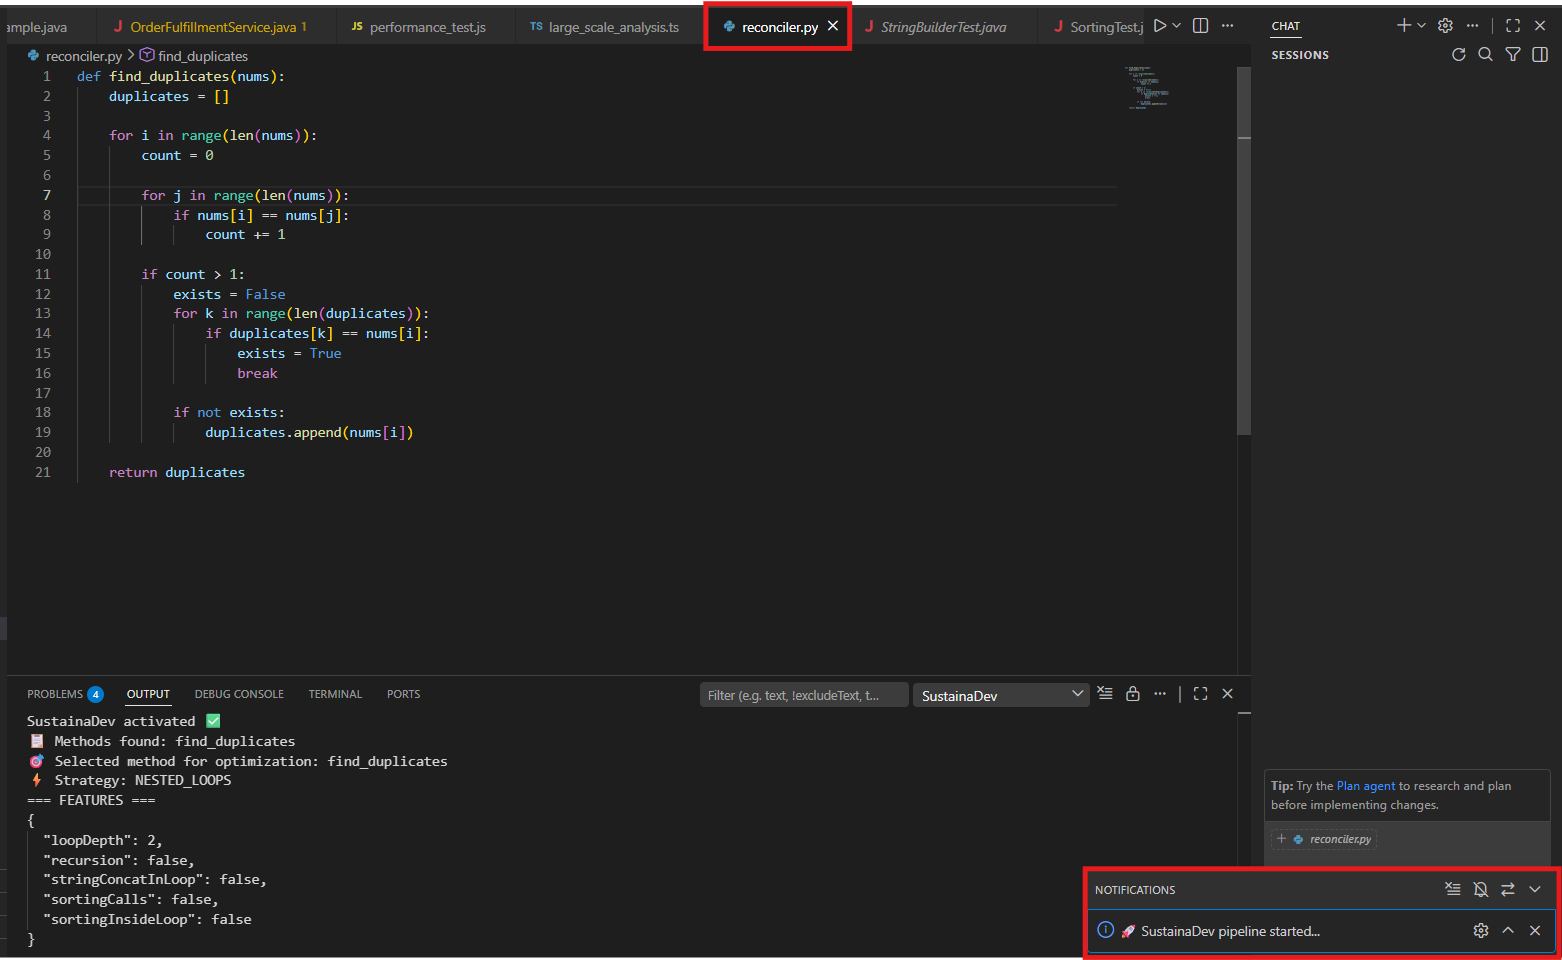
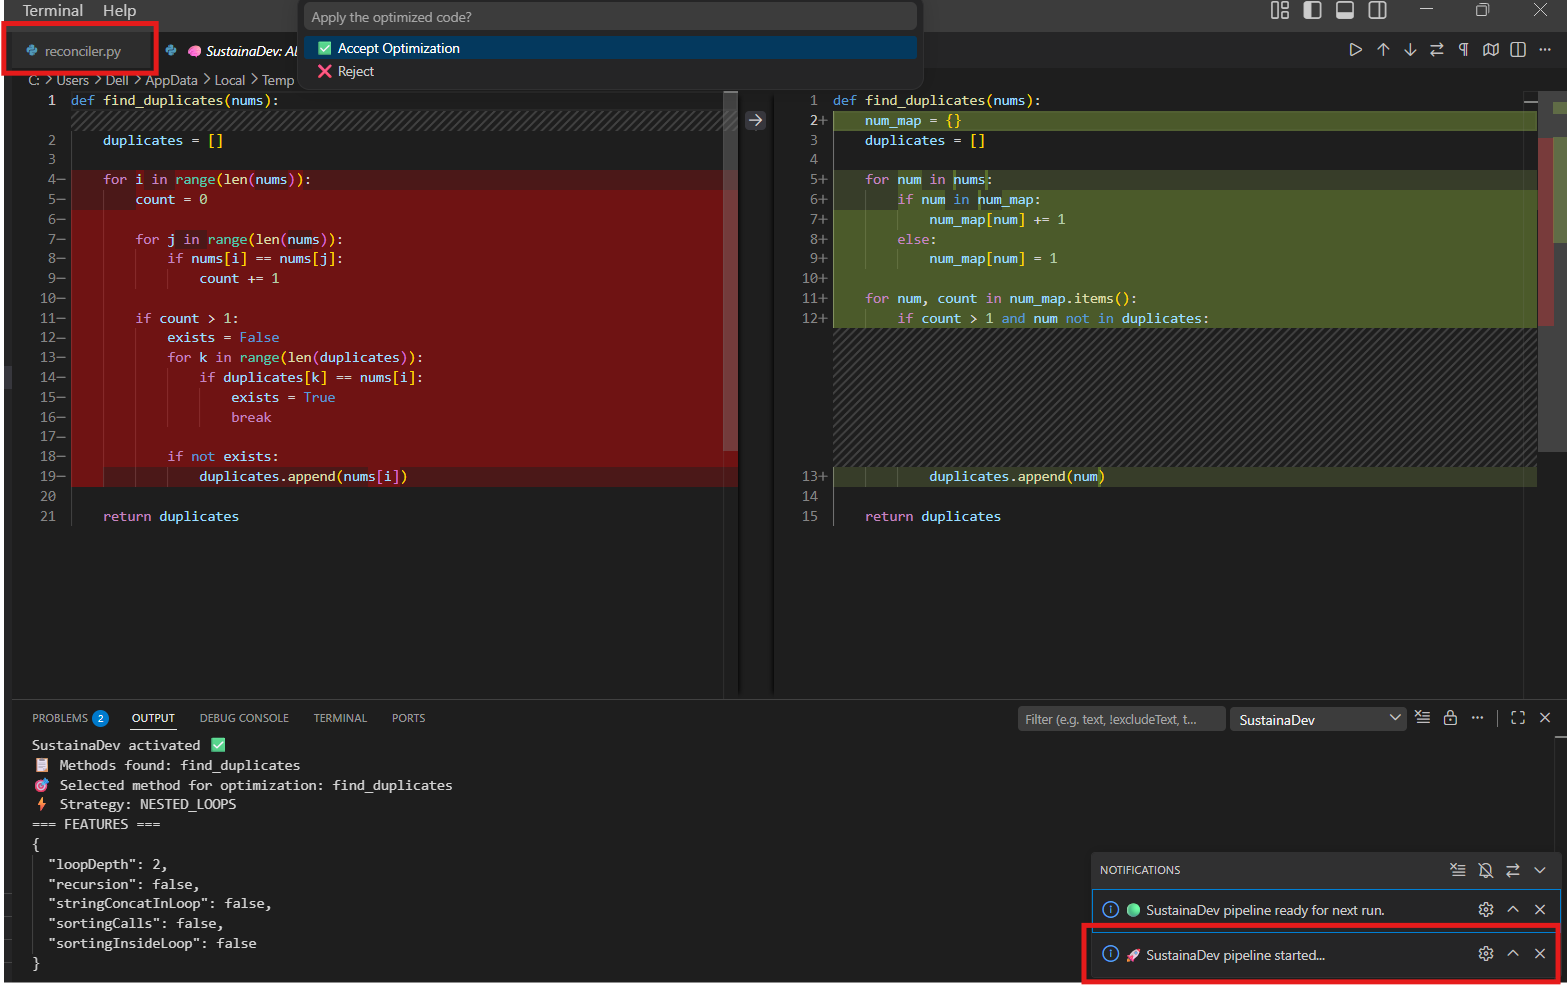
testcases from 1 to 8

diff --git a/testcode/test.py b/testcode/test.py
@@ -1,0 +1,2 @@
+def test()
+    print("hello")
